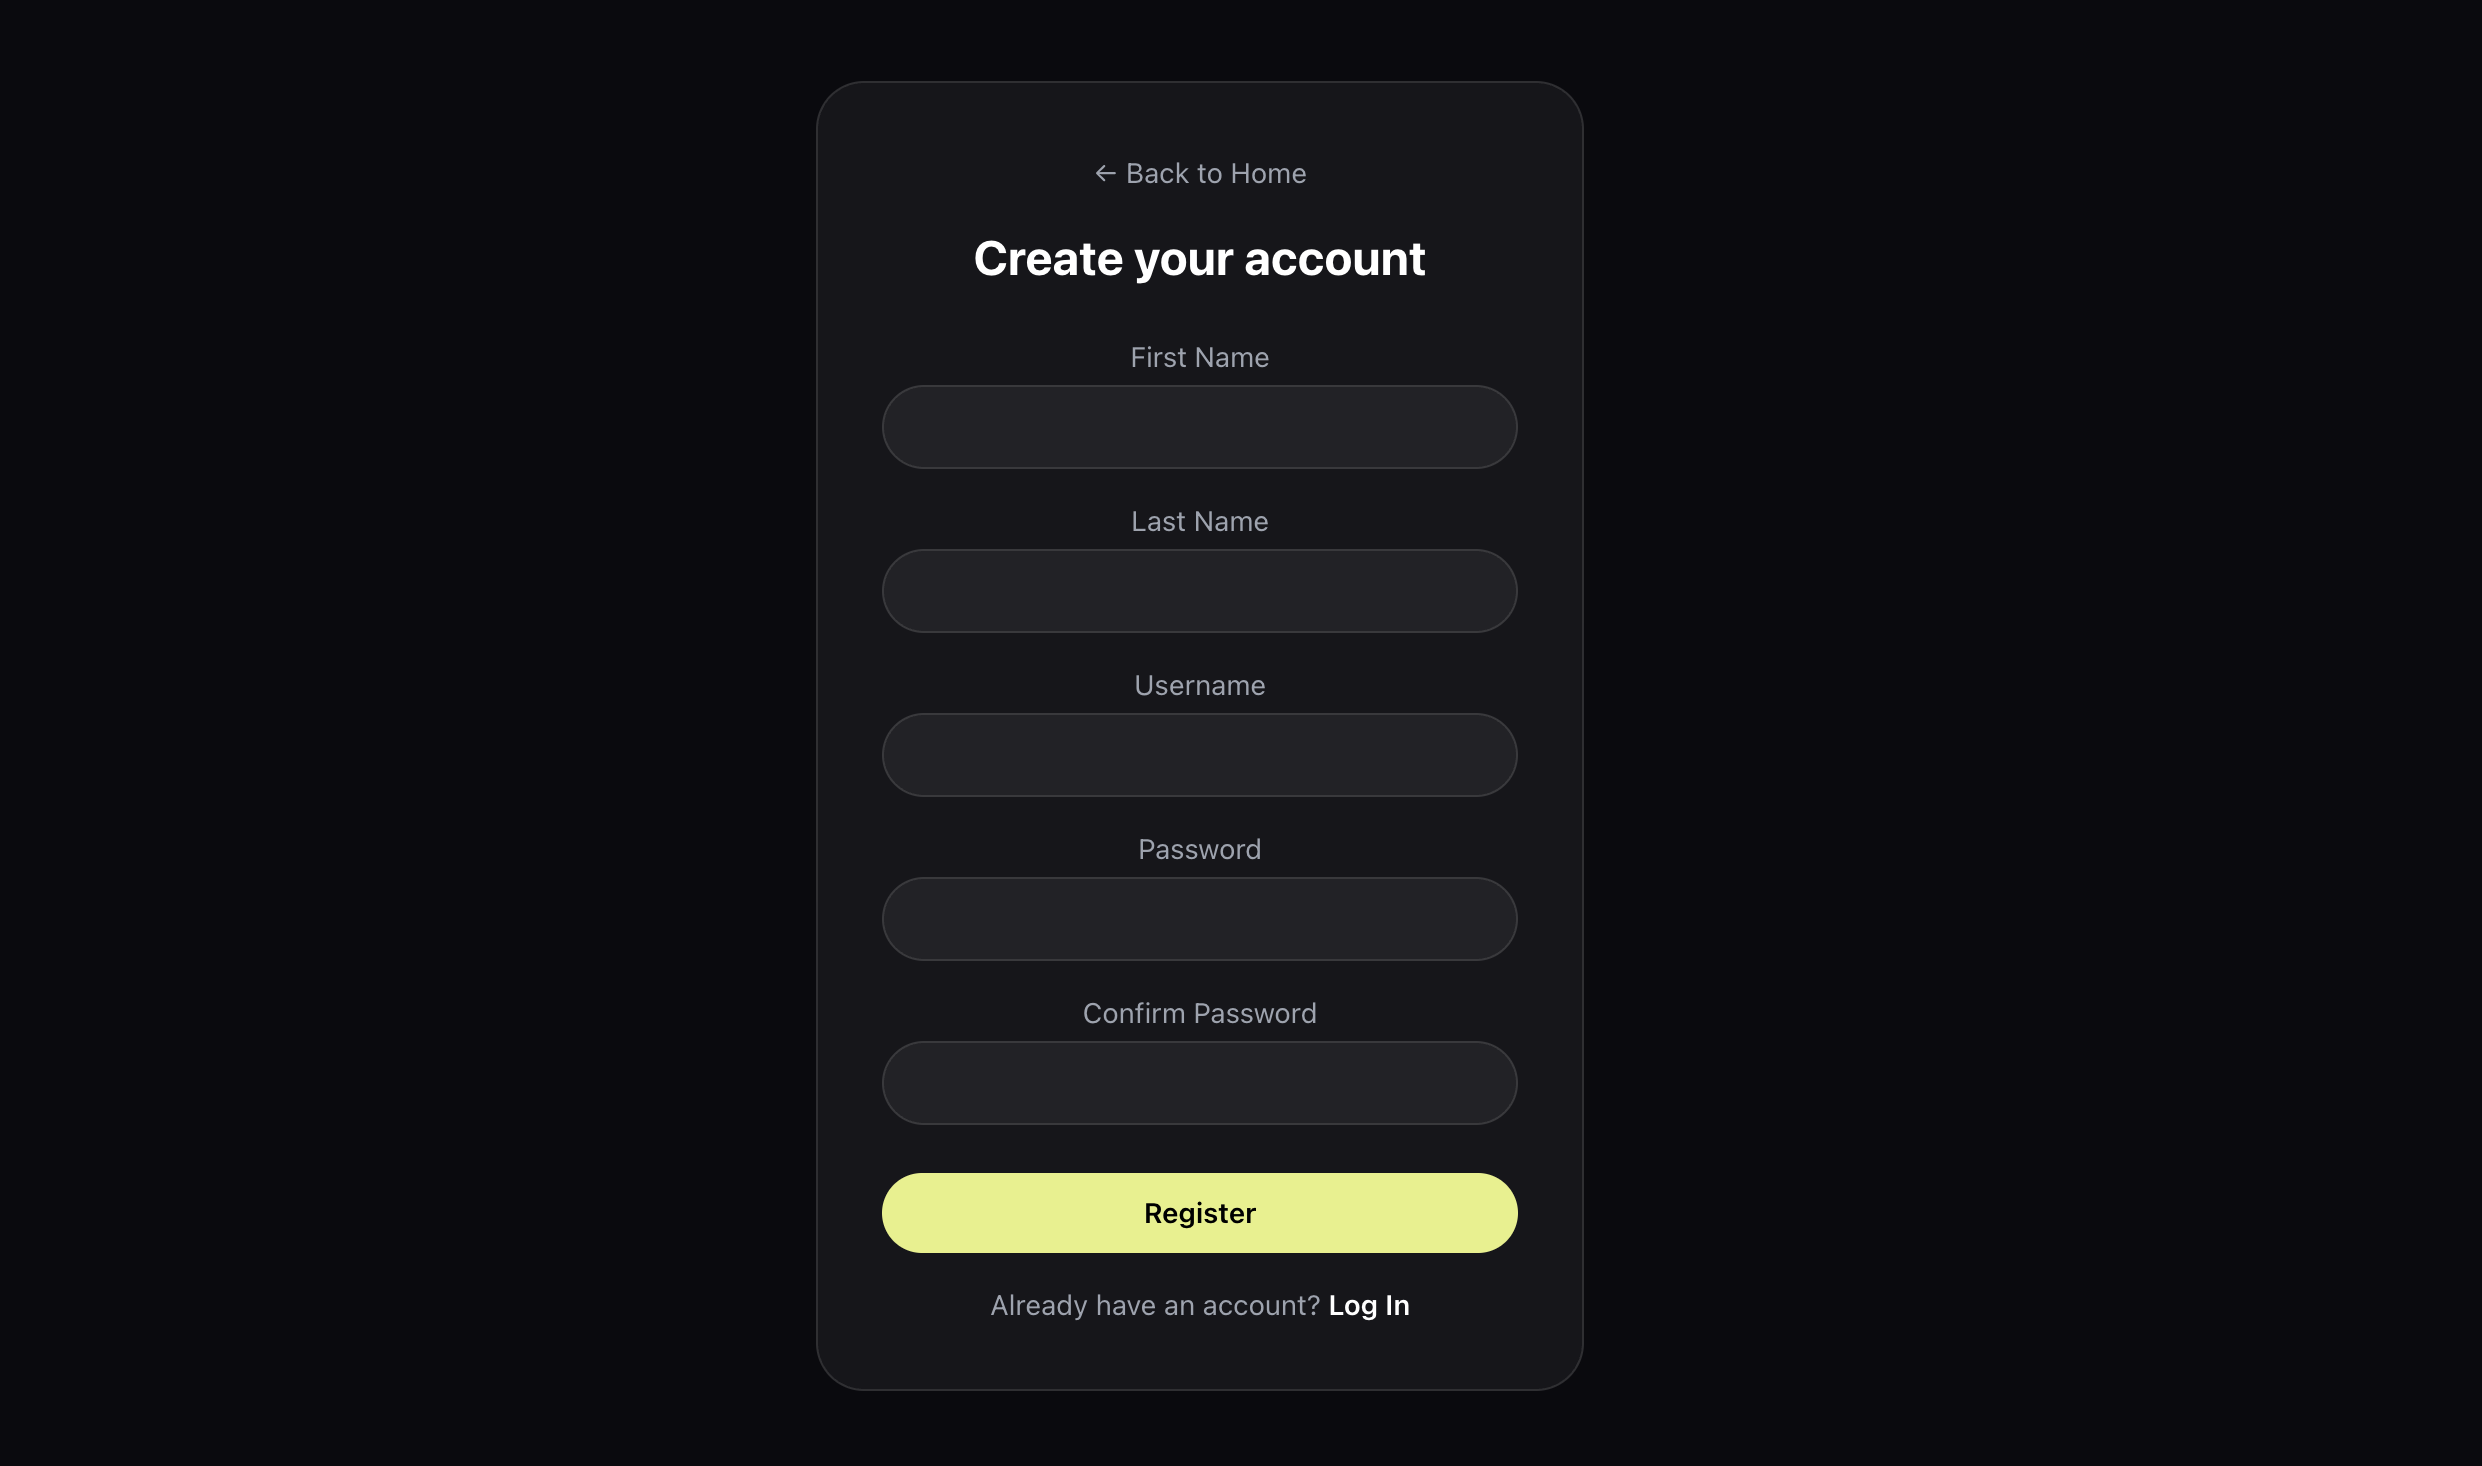
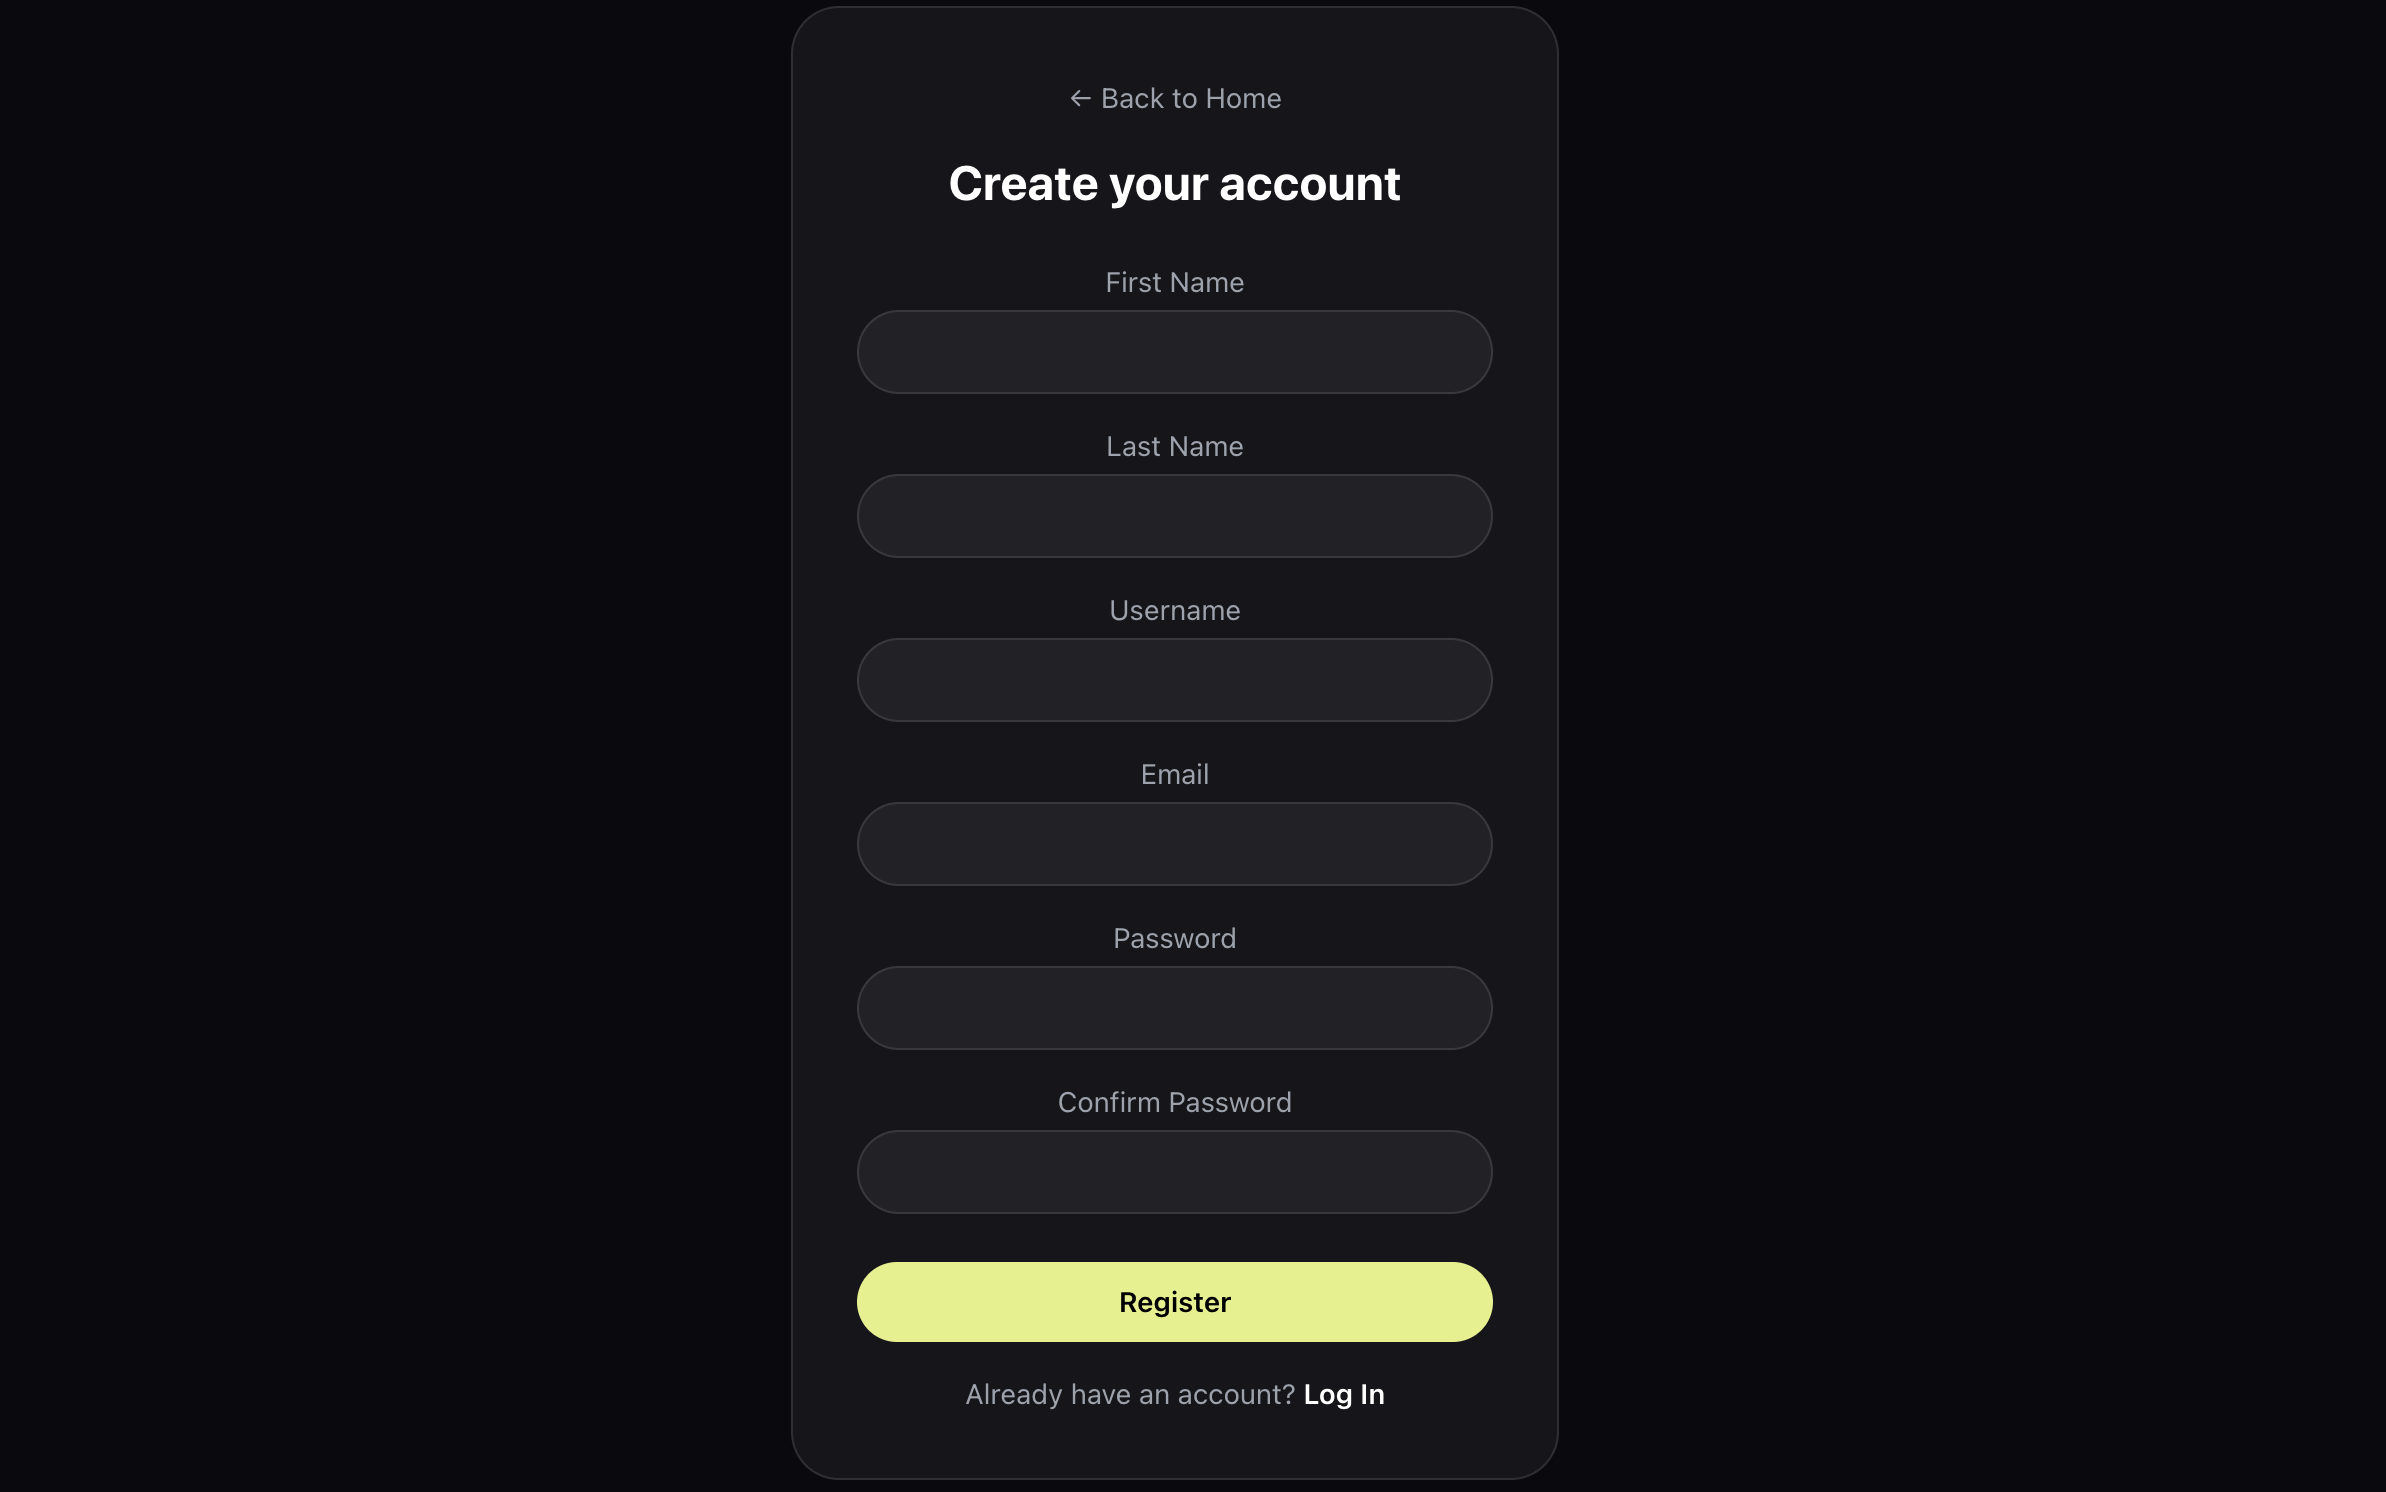
Update README content with new changes and screenshots

diff --git a/README.md b/README.md
@@ -7,27 +7,28 @@ React frontend for Climotion. A weather-aware workout planner. Search by city to
 
 ## Tech Stack
 
-- React
-- React Router
-- Tailwind CSS
-- Headless UI
+- **Framework:** React, React Router
+- **Styling & UI:** Tailwind CSS, Headless UI
+- **Icons:** React Icons, Heroicons
 
 ## Features
 
 - City search with popular city autocomplete suggestions
 - Weather results displaying temperature, condition, feels like, and daily high/low
 - AI-powered indoor/outdoor workout recommendation based on current weather
-- User registration and login with persisted sessions (JWT-based)
+- Browse and filter exercises by type, difficulty, and muscle group
+- Save workouts with before/after reflection notes, with full edit and delete support
+- User registration and login with persisted sessions via secure httpOnly JWT cookies
 - Dynamic background gradients that change per weather condition
 - Responsive layout for mobile and desktop
 
 ## Running Locally
 
-1. Clone and run the backend first, following its own README: [climotion-backend](https://github.com/kjicodes/climotion)
+1. Clone and run the backend first, following its own README: [climotion](https://github.com/kjicodes/climotion)
 
 2. Create a `.env` file in this project's root:
 
-    `REACT_APP_API_URL=http://127.0.0.1:8000`
+    `REACT_APP_API_URL=http://localhost:8000`
 
     pointed at wherever your local backend is actually running.
 
@@ -40,13 +41,23 @@ React frontend for Climotion. A weather-aware workout planner. Search by city to
 
 ## Project Structure
 
-    src/
-    ├── api/              # Functions for calling the Django REST backend
-    ├── components/       # Reusable UI pieces, one folder per component (.jsx + .css)
-    ├── context/          # React Context providers (AuthContext for auth state)
-    ├── pages/            # Top-level route components (Home, Login, Register, Workouts, SavedWorkouts)
-    ├── App.js            # Route definitions
-    └── index.js          # App entry point
+\`\`\`
+src/
+├── api/              # Functions for calling the Django REST backend
+├── components/       # Reusable UI pieces, one folder per component (.jsx + .css)
+├── context/          # React Context providers (AuthContext for auth state)
+├── pages/            # Top-level route components (Home, Login, Register, Workouts, SavedWorkouts)
+├── App.js            # Route definitions
+└── index.js          # App entry point
+\`\`\`
+
+
+## Roadmap
+
+- UI for uploading workout-goal documents and viewing the generated AI workout plan
+- "Export to Google Sheets" action on generated workout plans
+- "Sign in with Google" button and OAuth flow
+- Add Docker support for local frontend setup
 
 ## Screenshots
 
@@ -63,4 +74,6 @@ React frontend for Climotion. A weather-aware workout planner. Search by city to
 <img src="docs/screenshots/screenshot-register.png" alt="Climotion Register Page" width="600"/>
 
 <img src="docs/screenshots/screenshot-login.png" alt="Climotion Log In Page" width="600"/>
+
+
 
